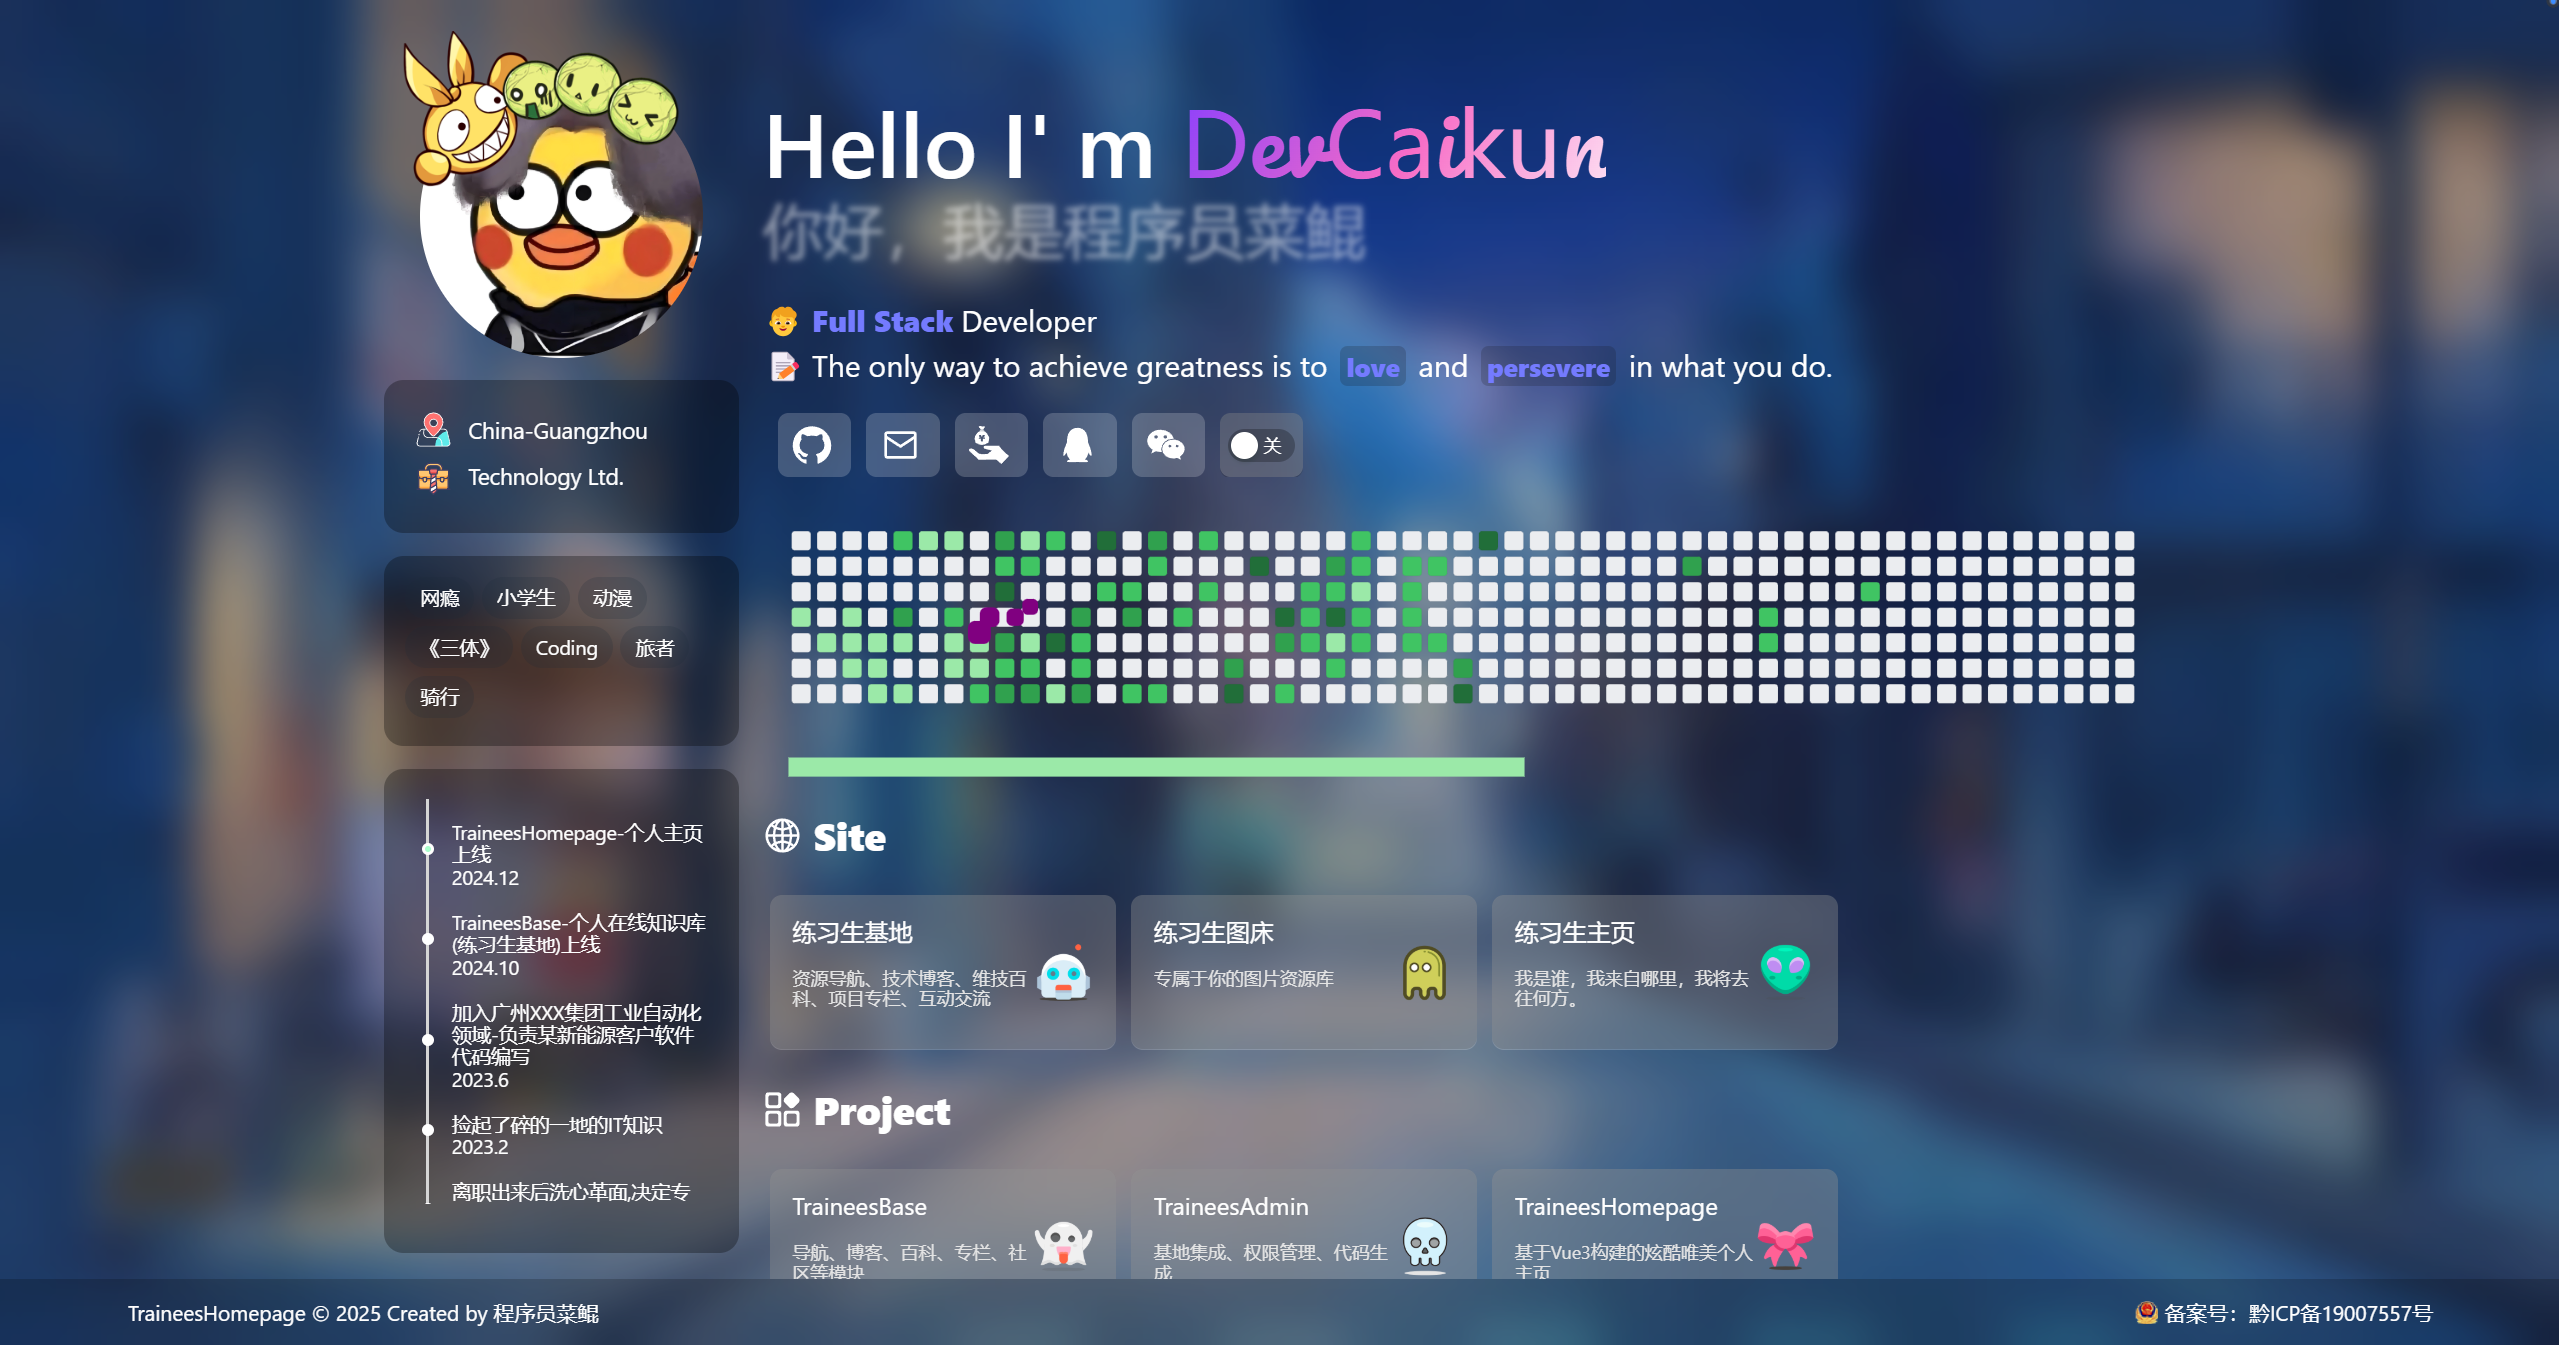
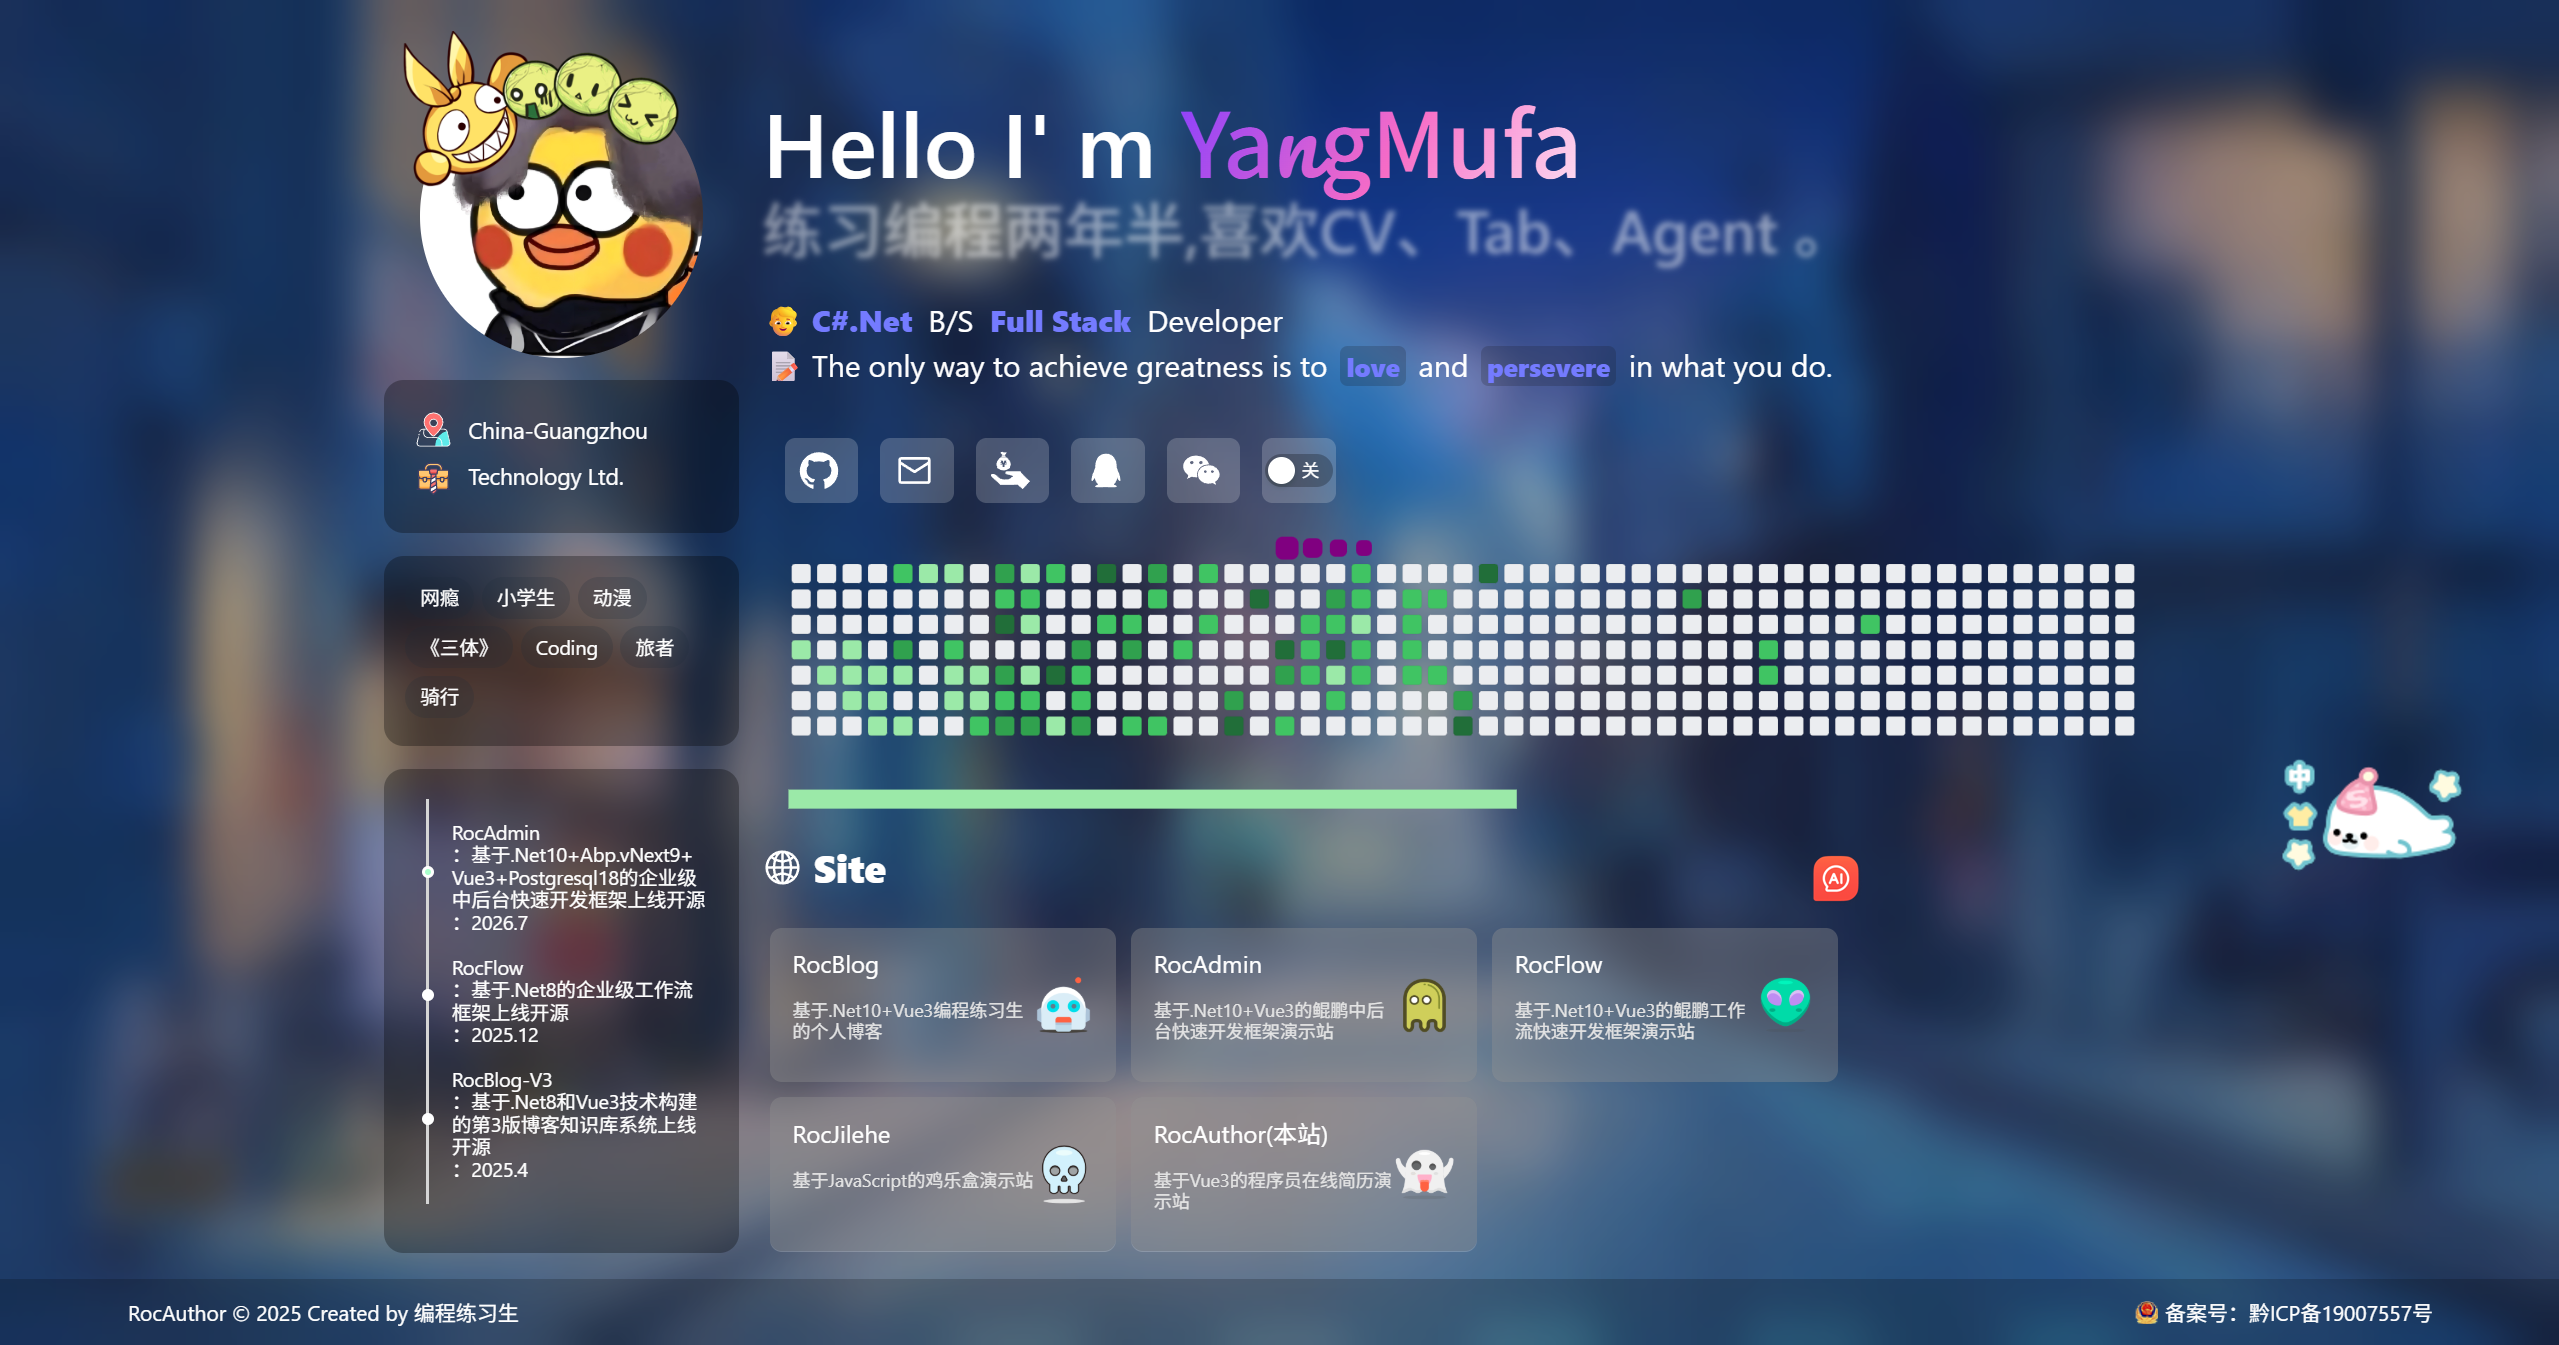
1.1.1

diff --git a/README.md b/README.md
@@ -5,16 +5,15 @@ This template should help get you started developing with Vue 3 and TypeScript i
 Learn more about the recommended Project Setup and IDE Support in the [Vue Docs TypeScript Guide](https://vuejs.org/guide/typescript/overview.html#project-setup).
 
   
-演示站：https://homepage.trainees.cn  
-GitEE：https://gitee.com/DevCaikun/TraineesHomepage.git  
-GitHub：https://github.com/DevCaikun/TraineesHomepage.git  
+演示站：https://author.yangmufa.cn  
+GitHub：https://github.com/yangmufa/RocAuthor.git  
   
 PC截图  
 ![PcScreenshots.png](src/assets/img/PcScreenshots.png)  
 ![PcScreenshotsDark.png](src/assets/img/PcScreenshotsDark.png)  
   
 Mobile截图  
-![MobileScreenshots.png.jpg](src/assets/img/MobileScreenshots.png.jpg)  
+![MobileScreenshots.png](src/assets/img/MobileScreenshots.png)  
   
 感谢 [ZYYO](https://github.com/ZYYO666)  
 ZYYO前台: https://github.com/ZYYO666/homepage  
